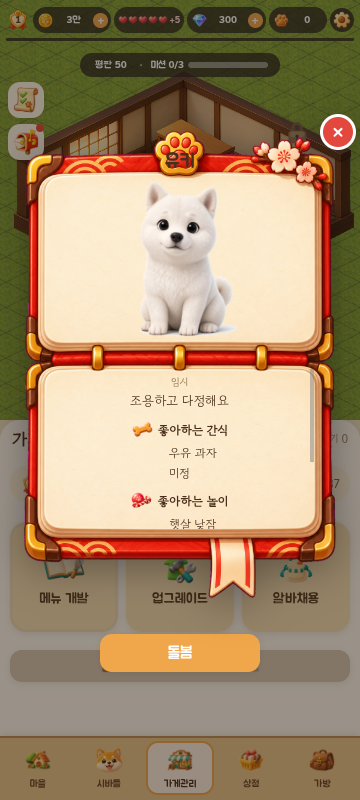
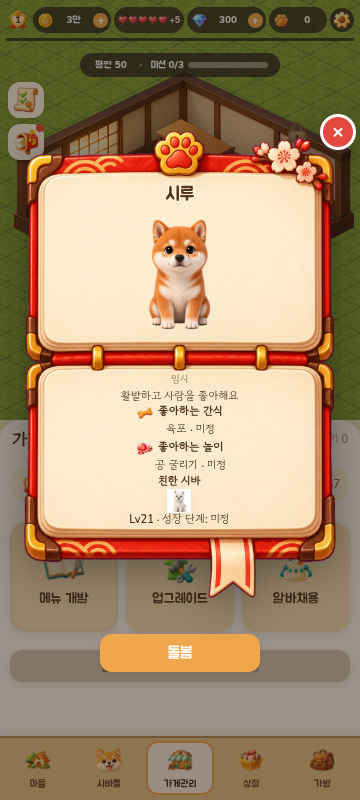
17-14 상세: 이름을 발바닥 배지 아래로, 360x800 스크롤 없이 친한 시바·Lv 줄 표시, 리본·간식·놀이 그림 경로 9개 슬롯(없으면 빈칸)

Changed region(s): [[0.3972, 0.1875, 0.6417, 0.4375], [0.3361, 0.4688, 0.6722, 0.6562], [0.8556, 0.4688, 0.8861, 0.5938]]

diff --git a/start-room-3d/main.js b/start-room-3d/main.js
@@ -456,7 +456,7 @@ const friendCafeHtml=id=>{const f=s.friends.find(f=>String(f.id)===String(id));i
  return `<section class="friend-cafe" data-friend-cafe="${f.id}"><div class="fc-title"><strong>${L('friend.cafe',{name:f.name})}</strong><span>Lv${f.level??L('app.unset')}</span></div><div class="fc-room" style="aspect-ratio:${W}/${H}"><img class="fc-bg" src="${C.room}" alt="">${C.furniture.map(o=>`<img class="fc-item" src="${o.src}" alt="" style="${pos(o)}">`).join('')}${f.breed?`<img class="fc-item fc-shiba" src="${IMG.shiba(f.breed)}" alt="" data-knockout style="${pos(C.shiba)}">`:''}</div><div class="fc-btns">${RELEASE?'':`<button data-act="friendVisit" data-id="${f.id}" ${left===0?'disabled':''}>${ico('heart')} ${L('friend.getHearts',{n:v.hearts??L('app.unset')})} <small>${L('friend.today',{left:left??L('app.unset'),n:v.daily??L('app.unset')})}</small></button>`}<button class="sec" data-act="modalOk">${L('app.back')}</button></div></section>`;};
 P.friendVisit=id=>{const f=s.friends.find(f=>String(f.id)===String(id));if(!f)return P.friends();const v=CFG.heartUse.visit;return {title:L('friend.cafe',{name:f.name}),html:`<section class="card friend-visit" data-friend-visit="${f.id}">${f.breed?`<span class="friend-photo big">${img(IMG.shiba(f.breed))}</span>`:slot('')}<h2>${f.name}</h2><span>Lv${f.level??L('app.unset')}</span><p>${L('friend.visitNote',{n:v.hearts??L('app.unset'),d:v.daily??L('app.unset')})}</p>${RELEASE?'':`<button data-act="friendVisit" data-id="${f.id}">${L('friend.getHeart')}</button>`}<button class="sec" data-open="friends">${L('friend.list')}</button></section>`};};
 const bookHtml=id=>{const sh=S.byId(s,id);if(!sh)return '';const p=CFG.profiles[sh.breed]||{},B=CFG.profileBook,[W,H]=B.size,box=k=>{const [x,y,w,h]=B.boxes[k];return `left:${x/W*100}%;top:${y/H*100}%;width:${w/W*100}%;height:${h/H*100}%`;};const friends=(sh.friends||[]).map(id=>S.byId(s,id)).filter(Boolean),PL=(k,fb)=>LF('profile.'+sh.breed+'.'+k,fb);
- return `<article class="q17-profile profile-book${B.frame?' has-frame':''}" data-profile style="aspect-ratio:${W}/${H}${B.frame?`;background-image:url(${B.frame})`:''}"><button class="lp-close book-close" data-act="modalOk" aria-label="${L('app.close')}" style="right:${B.close.right}px;top:${B.close.top}px">×</button><h2 class="book-ribbon">${B.ribbon?img(B.ribbon,''):''}<span>${nameOf(sh)}</span></h2><div class="book-art" style="${box('art')}"><img data-knockout src="${IMG.shiba(sh.breed)}" alt="${nameOf(sh)}"></div><div class="book-box book-paper" style="${box('paper')}"><div class="book-intro"><small class="book-temp">${L('app.temp')}</small><p>${p.intro?PL('intro',p.intro):L('app.unset')}</p></div>${['favSnack','favPlay'].map(k=>`<section class="book-fav" data-fav="${k}"><b><img class="book-heading-icon" src="assets/drive/ui/card-${k==='favSnack'?'snack':'play'}.png" alt="">${L('book.'+k)}</b><div class="book-fav-name"><span class="book-fav-icon">${p[k]?.icon?img(p[k].icon,''):''}</span><span>${p[k]?.name?PL(k,p[k].name):L('app.unset')}</span></div><p>${p[k]?.line?PL(k+'Line',p[k].line):L('app.unset')}</p></section>`).join('')}<section class="book-friend-section"><b>${L('book.friends')}</b><div class="book-friends">${friends.length?friends.map(f=>`<button data-act="profile" data-id="${f.id}" aria-label="${nameOf(f)}">${img(IMG.shiba(f.breed),nameOf(f))}</button>`).join(''):L('book.none')}</div></section><div class="book-growth">Lv${sh.level} · ${L('book.growth')}: ${B.growthStages?.[sh.level]??L('app.unset')}</div></div></article><div class="book-care-out" style="margin-top:${B.careGap??16}px"><button data-act="careOpen" data-id="${id}">${L('book.care')}</button></div>`;};
+ return `<article class="q17-profile profile-book${B.frame?' has-frame':''}" data-profile style="aspect-ratio:${W}/${H}${B.frame?`;background-image:url(${B.frame})`:''}"><button class="lp-close book-close" data-act="modalOk" aria-label="${L('app.close')}" style="right:${B.close.right}px;top:${B.close.top}px">×</button><h2 class="book-ribbon">${B.ribbon?`<span class="book-slot book-ribbon-art" data-book-src="${B.ribbon.src}"></span>`:''}<span class="book-name" style="${B.ribbon?`left:${B.ribbon.safe.x/B.ribbon.w*100}%;top:${B.ribbon.safe.y/B.ribbon.h*100}%;width:${B.ribbon.safe.w/B.ribbon.w*100}%;height:${B.ribbon.safe.h/B.ribbon.h*100}%`:''}">${nameOf(sh)}</span></h2><div class="book-art" style="${box('art')}"><img data-knockout src="${IMG.shiba(sh.breed)}" alt="${nameOf(sh)}"></div><div class="book-box book-paper" style="${box('paper')}"><div class="book-intro"><small class="book-temp">${L('app.temp')}</small><p>${p.intro?PL('intro',p.intro):L('app.unset')}</p></div>${['favSnack','favPlay'].map(k=>`<section class="book-fav" data-fav="${k}"><b><img class="book-heading-icon" src="assets/drive/ui/card-${k==='favSnack'?'snack':'play'}.png" alt="">${L('book.'+k)}</b><div class="book-fav-name"><span class="book-fav-icon">${p[k]?.icon?`<span class="book-slot" data-book-src="${p[k].icon}"></span>`:''}</span><span>${p[k]?.name?PL(k,p[k].name):L('app.unset')}</span><span>· ${p[k]?.line?PL(k+'Line',p[k].line):L('app.unset')}</span></div></section>`).join('')}<section class="book-friend-section"><b>${L('book.friends')}</b><div class="book-friends">${friends.length?friends.map(f=>`<button data-act="profile" data-id="${f.id}" aria-label="${nameOf(f)}">${img(IMG.shiba(f.breed),nameOf(f))}</button>`).join(''):L('book.none')}</div></section><div class="book-growth">Lv${sh.level} · ${L('book.growth')}: ${B.growthStages?.[sh.level]??L('app.unset')}</div></div></article><div class="book-care-out" style="margin-top:${B.careGap??16}px"><button data-act="careOpen" data-id="${id}">${L('book.care')}</button></div>`;};
 P.profile=id=>{const sh=S.byId(s,id);if(!sh)return P.shibas();return {title:nameOf(sh),html:bookHtml(id)};};
 // 병원 (갱신 58·111·111-1·112·131·135-2): 마을 → 진료실. 다친·앓아누운 시바를 보내고, 입원 중이면 남은 시간과 앞당기기.
 // 비용 CFG.hospital.costs (카페 레벨 구간), 시간 CFG.hospital.stays. 아픈 포즈 그림은 CFG.hospitalArt.sick[breed]; 없으면 기존 시바 그림.
@@ -506,7 +506,14 @@ function knockoutWhite(el){const src=el.getAttribute('src');if(el.dataset.knocke
   x.putImageData(d,0,0);const u=c.toDataURL('image/png');knockCache.set(src,u);if(el.isConnected)done(u);}catch(e){knockCache.delete(src);}};im.src=src;}
 // 상점 테마 카드 이름: 칸보다 길면 글자 크기를 줄여 한 줄에 맞춘다(최소 8px, 카드 크기 유지).
 export function fitThemeNames(root=document){root.querySelectorAll('.theme-logo small').forEach(el=>{el.style.fontSize='';let fs=parseFloat(getComputedStyle(el).fontSize)||11;while(el.scrollWidth>el.clientWidth+0.5&&fs>8){fs-=0.5;el.style.fontSize=fs+'px';}});}
-new MutationObserver(()=>{document.querySelectorAll('img[data-knockout]').forEach(knockoutWhite);fitThemeNames();}).observe(document.body,{childList:true,subtree:true});
+// Probe each optional 1x asset once; missing artwork leaves an empty slot.
+const bookAssetCache=new Map();
+function loadBookSlots(){document.querySelectorAll('[data-book-src]').forEach(slot=>{
+ if(slot.dataset.bookLoading)return;slot.dataset.bookLoading='1';const src=slot.dataset.bookSrc;
+ if(!bookAssetCache.has(src))bookAssetCache.set(src,new Promise(resolve=>{const probe=new Image();probe.onload=()=>resolve(true);probe.onerror=()=>resolve(false);probe.src=src;}));
+ bookAssetCache.get(src).then(ok=>{if(!ok||!slot.isConnected)return;const art=new Image();art.alt='';art.onerror=()=>art.remove();art.src=src;slot.append(art);});
+});}
+new MutationObserver(()=>{loadBookSlots();document.querySelectorAll('img[data-knockout]').forEach(knockoutWhite);fitThemeNames();}).observe(document.body,{childList:true,subtree:true});
 
 // 첫 실행 동구 안내 (v3): dialogue modals in order; 확인 = 다음, 건너뛰기 = 전부 닫기. Shown once (s.tutorialDone).
 function startTutorial(){if(s.tutorialDone||!CFG.tutorial?.steps?.length)return;s.tutorialDone=true;tutorialStep(0);}

diff --git a/start-room-3d/index.html b/start-room-3d/index.html
@@ -230,7 +230,7 @@ small.fx{display:block;font-family:'Gowun Dodum',sans-serif;font-size:11px;opaci
 .cook-detail{gap:4px!important}.cook-main{display:flex;align-items:center;gap:10px;width:100%}.cook-main .q17-preview{flex:none;height:auto!important;display:block}.cook-main{align-items:flex-start!important}.q17-preview>img{width:80px!important;height:80px!important;object-fit:contain}.cook-main .cook-ings{flex:1;gap:4px}.cook-ing{justify-content:flex-start!important}.cook-ing>img{width:24px!important;height:24px!important}.cook-ing button{padding:4px 8px;font-size:12px;margin-left:auto}.cook-fx{font-size:13px;text-align:left}
 .cook-foot{display:grid!important;grid-template-columns:auto 1fr;grid-template-rows:auto auto;gap:4px 8px!important}.cook-foot>[data-open=run]{grid-row:1/3;padding:6px 10px;font-size:12px}.cook-foot [data-craft-time]{font-size:13px}
 .friend-card{height:auto!important;min-height:0!important;padding:10px!important;gap:4px!important}.friend-card .friend-photo img{width:72px;height:72px}.friend-card strong,.friend-card span{white-space:nowrap}
-.book-ribbon{position:absolute;top:4%;left:15%;width:70%;height:6%;margin:0;display:flex;align-items:center;justify-content:center;font-size:20px;text-align:center}.book-ribbon img{position:absolute;width:100%;height:100%;object-fit:contain}.book-ribbon span{position:relative}.book-box.book-paper{display:block;overflow-y:auto;overscroll-behavior:contain;text-align:center;padding:5px 7px;font-size:12px}.book-paper p{margin:2px 0;line-height:1.35}.book-temp{font-size:10px;color:#8a6a48}.book-fav{margin:7px 0}.book-fav b{display:flex;align-items:center;justify-content:center;gap:4px}.book-heading-icon{width:23px;height:23px;object-fit:contain}.book-fav-name{display:flex;align-items:center;justify-content:center;gap:4px}.book-fav-icon{width:23px;height:23px;display:inline-block}.book-fav-icon img{width:100%;height:100%;object-fit:contain}.book-paper .book-friends{justify-content:center;margin:4px 0}.book-growth{margin-top:6px}.book-care-out{display:flex;justify-content:center}.book-care-out button{min-width:160px;padding:10px 28px}
+.book-ribbon{position:absolute;top:10.5%;left:30%;width:40%;height:6.75%;margin:0;display:flex;align-items:center;justify-content:center;font-size:18px;color:#59351c;text-shadow:0 1px 0 #fff8e8,1px 0 0 #fff8e8,-1px 0 0 #fff8e8,0 -1px 0 #fff8e8;text-align:center}.book-ribbon img{position:absolute;width:100%;height:100%;object-fit:contain}.book-ribbon .book-name{position:absolute;display:flex;align-items:center;justify-content:center;line-height:1.1;white-space:nowrap}.book-ribbon-art{position:absolute;inset:0}.book-slot img{width:100%;height:100%;object-fit:contain}.book-fav-icon .book-slot{display:block;width:100%;height:100%}.book-box.book-paper{display:block;overflow-y:auto;overscroll-behavior:contain;text-align:center;padding:2px 6px;font-size:11px;line-height:1.15}.book-paper p{margin:1px 0;line-height:1.2;font-size:11px}.book-temp{font-size:10px;color:#8a6a48}.book-fav{margin:0}.book-fav b{display:flex;align-items:center;justify-content:center;gap:4px}.book-heading-icon{width:18px;height:18px;object-fit:contain}.book-fav-name{display:flex;flex-wrap:nowrap;align-items:center;justify-content:center;gap:4px}.book-fav-icon{width:18px;height:18px;display:inline-block}.book-fav-icon img{width:100%;height:100%;object-fit:contain}.book-paper .book-friends button{width:24px;height:24px}.book-paper .book-friends{justify-content:center;margin:1px 0}.book-growth{margin-top:1px}.book-care-out{display:flex;justify-content:center}.book-care-out button{min-width:160px;padding:10px 28px}
 .friend-card{color:#5a3c22!important;background:#fff8e8!important}.friend-card strong{font-size:15px}.friend-card span{font-size:13px;color:#8a6a48}.friend-card small{color:#e08a2c;font-weight:700}
 #mbox.friend-cafe-popup{width:min(96vw,520px);max-width:none!important;padding:10px!important}.friend-cafe{display:flex;flex-direction:column;gap:10px;text-align:center}.fc-title{display:flex;flex-direction:column;align-items:center}.fc-title strong{font-size:18px}.fc-title span{font-size:13px;color:#8a6a48}
 .fc-room{position:relative;width:100%}.fc-bg{width:100%;height:100%;object-fit:contain;display:block}.fc-item{position:absolute;transform:translate(-50%,-50%);height:auto;pointer-events:none}.fc-btns{display:flex;flex-direction:column;gap:6px}.fc-btns button small{display:block;font-size:11px;opacity:.85}

diff --git a/start-room-3d/config.js b/start-room-3d/config.js
@@ -22,8 +22,8 @@ const CAFE_EXP=[7187,7187,11293,10853,10853,14813,14227,18480,18480,99792,77000,
 
 export const CFG={
  // §17-14 시바 상세 = 펼친 책 팝업. Frame art pending (empty popup of the same ratio). Boxes are [x,y,w,h] in frame px; starting values until 그림이 gives coordinates.
- profileBook:{ribbon:null,growthStages:null,frame:'assets/drive/ui/ui-shiba-book-frame.png',size:[1080,1600], // interior UI_시바상세_책틀.png 1VZRsBZT…; paper (lower page) = [88,804,900,532]
-  boxes:{art:[88,153,900,561],paper:[88,804,900,532],intro:[112,828,852,202],favs:[112,1042,852,138],friends:[112,1192,852,120]}, // 그림이 coordinates (frame px)
+ profileBook:{ribbon:{src:'assets/drive/profile/ribbon-name.png',w:768,h:192,safe:{x:104,y:40,w:560,h:112}},growthStages:null,frame:'assets/drive/ui/ui-shiba-book-frame.png',size:[1080,1600], // interior UI_시바상세_책틀.png 1VZRsBZT…; paper (lower page) = [88,804,900,532]
+  boxes:{art:[88,280,900,410],paper:[88,804,900,532],intro:[112,828,852,202],favs:[112,1042,852,138],friends:[112,1192,852,120]}, // 그림이 coordinates (frame px)
   careGap:16, // 똑또기 starting value 2026-10-15: 돌봄 button outside the frame, centred just below it, 16px gap
   close:{right:-14,top:-14},knockoutMin:240}, // starting value: close button outside the frame, top-right (CSS px)
  itemGet:{dimAlpha:0.75, // 시작값 2026-10-15(똑또기): 아이템 획득 팝업 아래 검정 75% 어두운 막(상단 바·패널·탭 줄까지 화면 전체)
@@ -45,10 +45,10 @@ export const CFG={
     {id:'pet',name:'시바 1마리 쓰다듬기',goal:1,tab:'shiba',icon:'assets/drive/ui/tab-shiba.png'}, // 임시
     {id:'sell',name:'메뉴 1잔 판매',goal:1,tab:'manage',icon:'assets/drive/ui/tab-manage.png'}]}, // 임시
   dongu:{chapters:null},instantDia:10}, // 임시: 즉시완료 10다이아
- profiles:{red:{intro:'활발하고 사람을 좋아해요',favSnack:{name:'육포',icon:null,line:null},favPlay:{name:'공 굴리기',icon:null,line:null}}, // 임시
-  white:{intro:'조용하고 다정해요',favSnack:{name:'우유 과자',icon:null,line:null},favPlay:{name:'햇살 낮잠',icon:null,line:null}}, // 임시
-  sesame:{intro:'호기심이 많아요',favSnack:{name:'고구마칩',icon:null,line:null},favPlay:{name:'짧은 산책',icon:null,line:null}}, // 임시
-  kuro:{intro:'쿨해 보이지만 잘 챙겨요',favSnack:{name:'연어 스틱',icon:null,line:null},favPlay:{name:'줄다리기',icon:null,line:null}}}, // 임시
+ profiles:{red:{intro:'활발하고 사람을 좋아해요',favSnack:{name:'육포',icon:'assets/drive/profile/snack-jerky.png',line:null},favPlay:{name:'공 굴리기',icon:'assets/drive/profile/play-ball-roll.png',line:null}}, // 임시
+  white:{intro:'조용하고 다정해요',favSnack:{name:'우유 과자',icon:'assets/drive/profile/snack-milk-biscuit.png',line:null},favPlay:{name:'햇살 낮잠',icon:'assets/drive/profile/play-sun-nap.png',line:null}}, // 임시
+  sesame:{intro:'호기심이 많아요',favSnack:{name:'고구마칩',icon:'assets/drive/profile/snack-sweet-potato-chip.png',line:null},favPlay:{name:'짧은 산책',icon:'assets/drive/profile/play-short-walk.png',line:null}}, // 임시
+  kuro:{intro:'쿨해 보이지만 잘 챙겨요',favSnack:{name:'연어 스틱',icon:'assets/drive/profile/snack-salmon-stick.png',line:null},favPlay:{name:'줄다리기',icon:'assets/drive/profile/play-tug.png',line:null}}}, // 임시
  friendCafe:{room:'assets/drive/room-tatami-noline.png',roomSize:[861,615], // 임시: friend café = our approved room art, view-only
   furniture:[{src:'assets/drive/furn-counter-v4.png',x:30,y:30,w:24},{src:'assets/drive/furn-tea-table-v4.png',x:52,y:56,w:20},{src:'assets/drive/furn-cushion-v4.png',x:40,y:64,w:11},{src:'assets/drive/furn-cushion-v4.png',x:64,y:66,w:11}], // 임시 배치 (% of room, x/y = sprite centre)
   shiba:{x:60,y:48,w:16}}, // 임시: friend's shiba position
